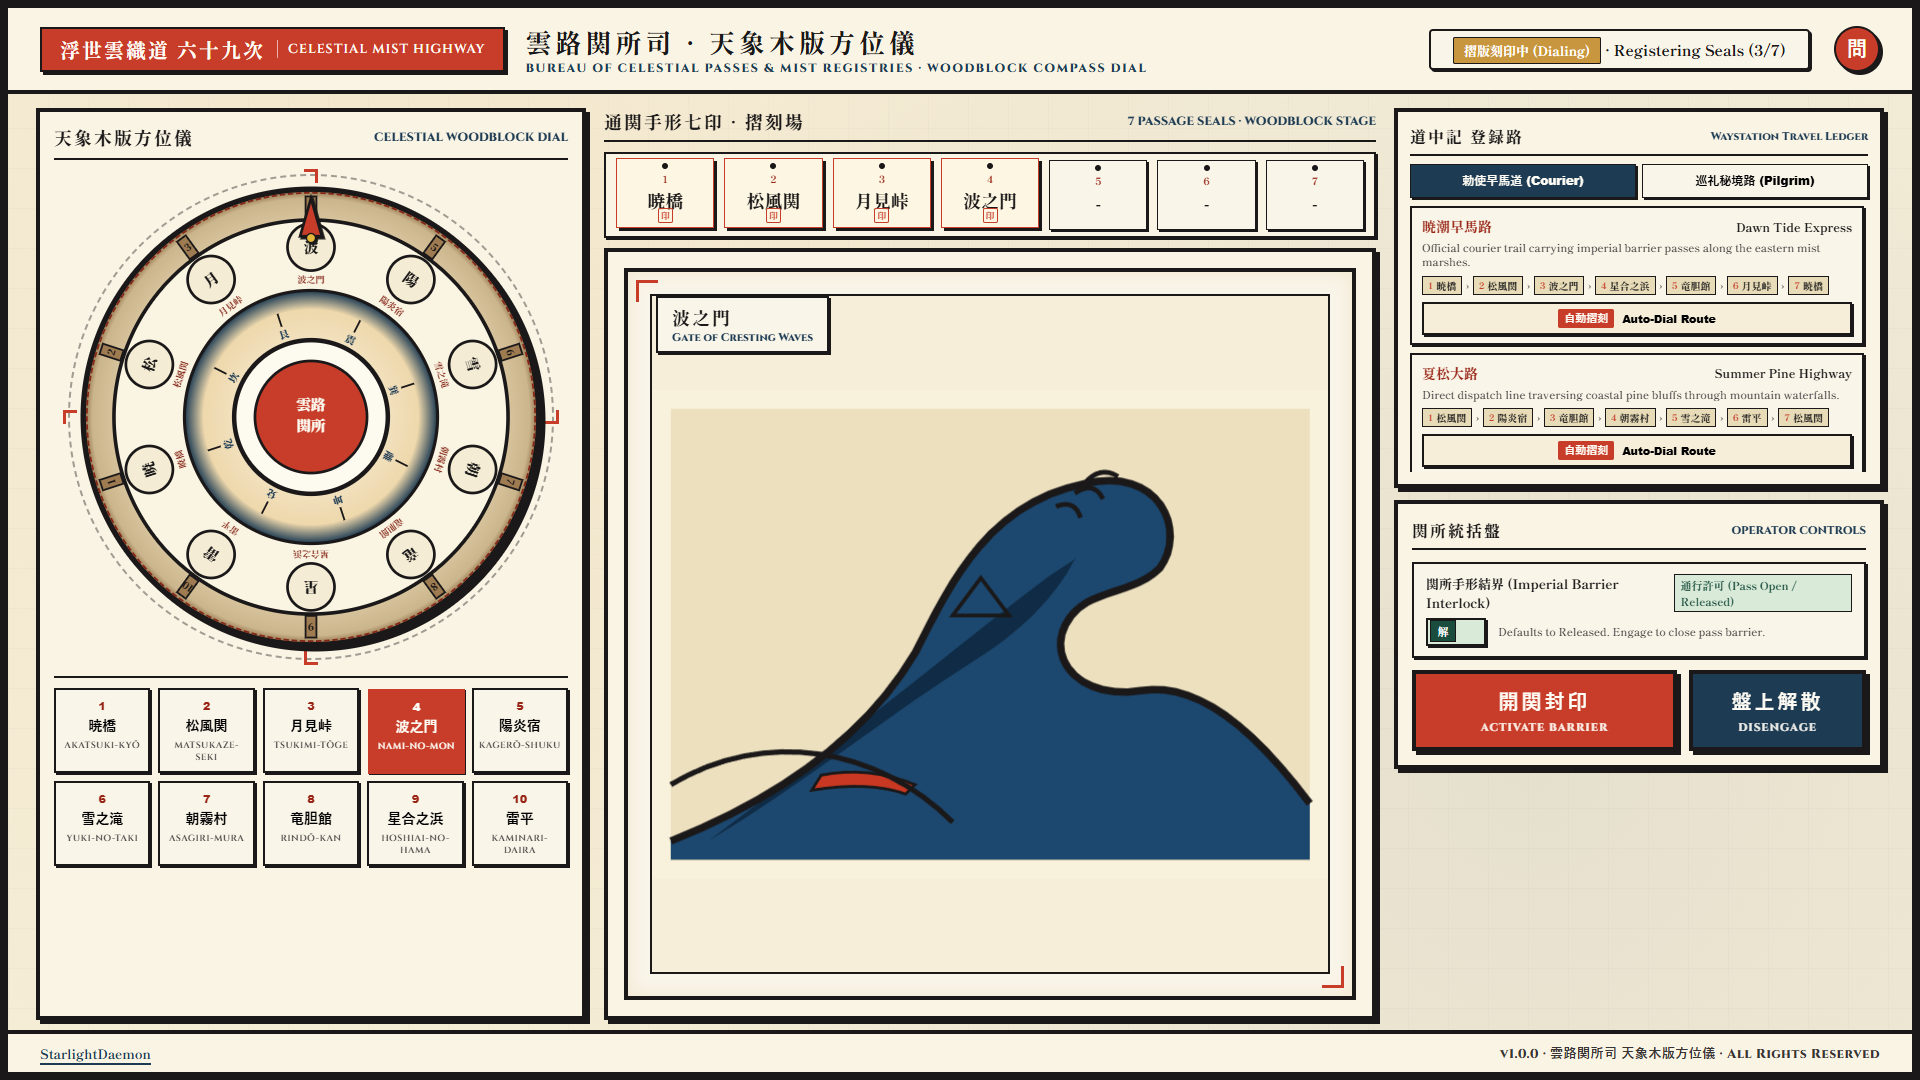
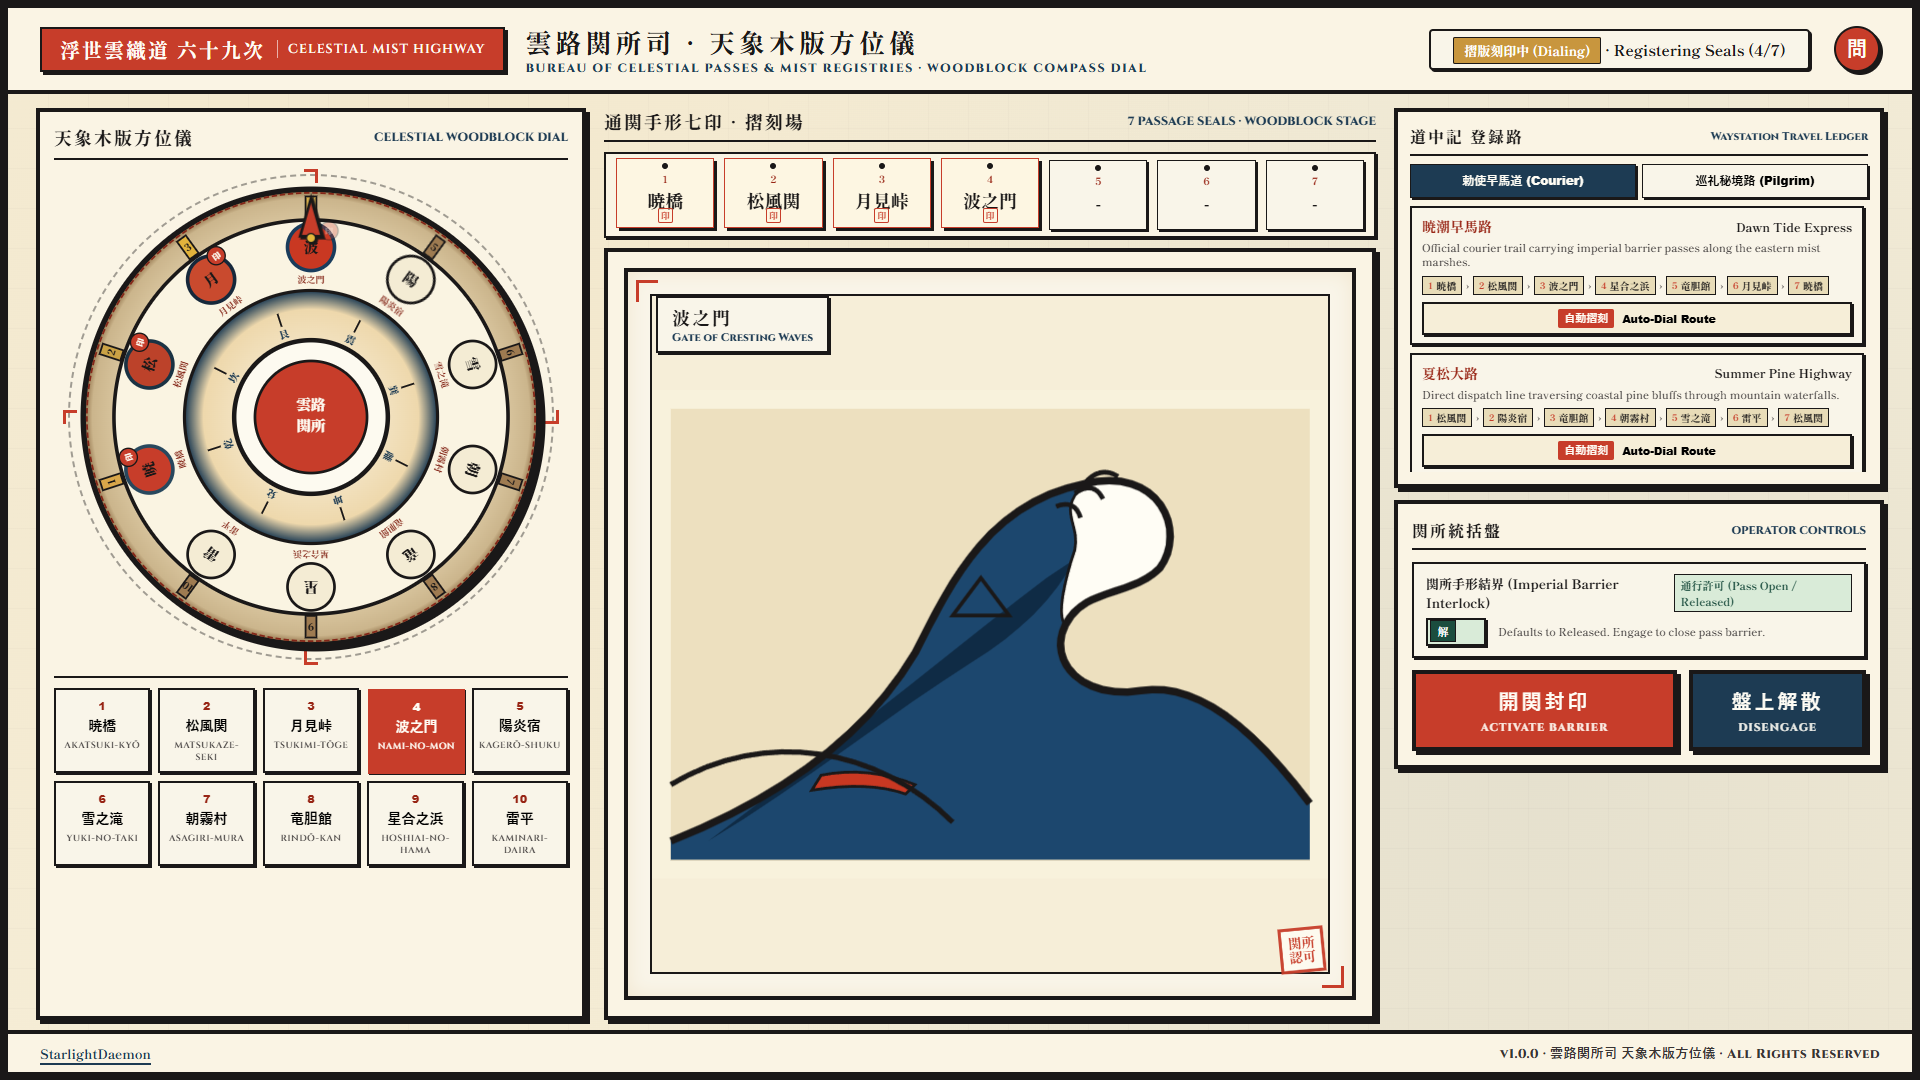
fix(ukiyo_waystation): ring carries its own locking feedback; serialize rapid clicks
Diagnosed two confirmed defects directly in this build's code:
- The rotating dial ring never changed visual state on a station lock; all
  5-layer woodblock stamping feedback lived only in the separate stage panel.
- Rapid manual clicks (faster than the ~560ms rotate+stamp pipeline) raced
  handleManualStationLock/stampStation with no reentrancy guard, producing
  duplicate registrations and blank destination tags.

Adds CelestialDial.animateSectorLock() so each locked sector stamps through
the same woodblock layer colors on the ring itself, ending in a persistent
sealed state. Adds an explicit click queue so mid-pipeline clicks are queued
(with audible/visual acknowledgement) and processed strictly in order instead
of racing. Updates test_e2e.js's manual-dial/interlock tests to wait on
actual completion instead of fixed sleeps tuned to the old racing behavior.

Full existing 14-test E2E suite re-verified with no regressions.

Built by: Claude Sonnet 5

diff --git a/stargate_ukiyo_waystation/js/dial.js b/stargate_ukiyo_waystation/js/dial.js
@@ -16,6 +16,9 @@ class CelestialDial {
         this.selectedIndex = -1;
         this.isSpinning = false;
         this.onStationLockedCallback = null;
+        this.lockedIndices = new Set();
+        this.clickQueue = [];
+        this.isLockInFlight = false;
     }
 
     init(containerId = 'dial-container', onStationLocked = null) {
@@ -38,14 +41,18 @@ class CelestialDial {
 
             sectorsSvg += `
                 <g class="dial-sector" data-index="${i}" data-id="${st.id}" transform="rotate(${angle} 260 260)">
-                    <!-- Outer Woodblock Rim Notch -->
-                    <rect x="254" y="16" width="12" height="24" fill="#9e7b51" stroke="#1a1818" stroke-width="2"/>
+                    <!-- Outer Woodblock Rim Notch (progressively stamped through print layers on lock) -->
+                    <rect x="254" y="16" width="12" height="24" fill="#9e7b51" stroke="#1a1818" stroke-width="2" class="sector-notch"/>
                     <text x="260" y="32" font-family="'Noto Serif JP', serif" font-size="11" font-weight="900" fill="#1a1818" text-anchor="middle">${i + 1}</text>
-                    
+
                     <!-- Station Seal Badge -->
                     <circle cx="260" cy="72" r="26" fill="#f4ecd4" stroke="#1a1818" stroke-width="3" class="sector-badge"/>
                     <text x="260" y="78" font-family="'Noto Serif JP', serif" font-size="16" font-weight="900" fill="#1a1818" text-anchor="middle">${st.kanji.charAt(0)}</text>
                     <text x="260" y="112" font-family="'Noto Serif JP', serif" font-size="10" font-weight="700" fill="#842618" text-anchor="middle">${st.kanji}</text>
+
+                    <!-- Locked Seal Stamp (revealed once this station fully resolves) -->
+                    <circle cx="280" cy="54" r="10" fill="#c73d2a" stroke="#1a1818" stroke-width="1.5" class="sector-seal-mark" opacity="0"/>
+                    <text x="280" y="58" font-family="'Noto Serif JP', serif" font-size="9" font-weight="900" fill="#fdfaf0" text-anchor="middle" class="sector-seal-text" opacity="0">印</text>
                 </g>
             `;
         }
@@ -146,7 +153,7 @@ class CelestialDial {
         sectors.forEach(sec => {
             sec.addEventListener('click', (e) => {
                 const idx = parseInt(sec.getAttribute('data-index'), 10);
-                this.rotateToStation(idx, true);
+                this.queueStationClick(idx);
             });
         });
 
@@ -155,9 +162,44 @@ class CelestialDial {
         padBtns.forEach(btn => {
             btn.addEventListener('click', (e) => {
                 const idx = parseInt(btn.getAttribute('data-index'), 10);
-                this.rotateToStation(idx, true);
+                this.queueStationClick(idx);
             });
         });
+    }
+
+    /**
+     * Entry point for every manual click. Clicks landing while a prior
+     * rotate+lock pipeline is still in flight are queued (with audible/visual
+     * acknowledgement) and processed strictly in order, rather than racing
+     * the in-progress animation and corrupting shared stage/ring state.
+     */
+    queueStationClick(idx) {
+        if (this.isLockInFlight) {
+            this.clickQueue.push(idx);
+            this.flashQueuedFeedback(idx);
+            window.UkiyoeAudio.playPaperFriction(0.06, 0.12);
+            return;
+        }
+        this.isLockInFlight = true;
+        this.processStationClick(idx);
+    }
+
+    processStationClick(idx) {
+        this.rotateToStation(idx, true, () => {
+            if (this.clickQueue.length > 0) {
+                const next = this.clickQueue.shift();
+                this.processStationClick(next);
+            } else {
+                this.isLockInFlight = false;
+            }
+        });
+    }
+
+    flashQueuedFeedback(idx) {
+        const btn = this.container.querySelector(`.station-pad-btn[data-index="${idx}"]`);
+        if (!btn) return;
+        btn.classList.add('pad-queued');
+        setTimeout(() => btn.classList.remove('pad-queued'), 320);
     }
 
     /**
@@ -199,21 +241,90 @@ class CelestialDial {
 
         setTimeout(() => {
             if (isManual && this.onStationLockedCallback) {
-                this.onStationLockedCallback(STATIONS_DATA[targetIdx]);
+                // onDone is deferred until the full external lock pipeline
+                // (woodblock stamping + registration) actually completes,
+                // so queued clicks never overlap an in-progress lock.
+                this.onStationLockedCallback(STATIONS_DATA[targetIdx], () => {
+                    if (onDone) onDone(STATIONS_DATA[targetIdx]);
+                });
+            } else {
+                if (onDone) onDone(STATIONS_DATA[targetIdx]);
             }
-            if (onDone) onDone(STATIONS_DATA[targetIdx]);
         }, 240);
+    }
+
+    /**
+     * Progressively stamps the corresponding dial sector's rim notch and seal
+     * badge through the same woodblock layer colors used on the print stage,
+     * so the ring itself is the primary, persistent record of which stations
+     * have locked - not just the separate stage panel.
+     */
+    animateSectorLock(index, station, isFast = false) {
+        const sectorElem = this.container && this.container.querySelector(`.dial-sector[data-index="${index}"]`);
+        if (!sectorElem) return;
+        const notch = sectorElem.querySelector('.sector-notch');
+        const badge = sectorElem.querySelector('.sector-badge');
+        const sealMark = sectorElem.querySelector('.sector-seal-mark');
+        const sealText = sectorElem.querySelector('.sector-seal-text');
+        if (!notch || !badge) return;
+
+        const layers = station.layers || {};
+        const stepTime = isFast ? 40 : 80;
+
+        sectorElem.classList.add('sector-locking');
+        notch.style.fill = '#1a1818';
+        notch.style.stroke = '#1a1818';
+
+        setTimeout(() => {
+            if (layers.jizuri) notch.style.fill = layers.jizuri;
+        }, stepTime);
+
+        setTimeout(() => {
+            if (layers.aizuri) {
+                notch.style.fill = layers.aizuri;
+                badge.style.stroke = layers.aizuri;
+            }
+        }, stepTime * 2);
+
+        setTimeout(() => {
+            if (layers.shuzuri) badge.style.fill = layers.shuzuri;
+        }, stepTime * 3);
+
+        setTimeout(() => {
+            if (layers.gold) notch.style.fill = layers.gold;
+            sectorElem.classList.remove('sector-locking');
+            sectorElem.classList.add('sector-locked');
+            this.lockedIndices.add(index);
+            if (sealMark) sealMark.style.opacity = '1';
+            if (sealText) sealText.style.opacity = '1';
+        }, stepTime * 4);
     }
 
     resetDial() {
         this.currentAngle = 0;
         this.selectedIndex = -1;
+        this.clickQueue = [];
+        this.isLockInFlight = false;
+        this.lockedIndices.clear();
         if (this.rotaryGroup) {
             this.rotaryGroup.style.transition = 'transform 0.4s cubic-bezier(0.25, 1, 0.5, 1)';
             this.rotaryGroup.style.transform = 'rotate(0deg)';
         }
         const padBtns = this.container.querySelectorAll('.station-pad-btn');
-        padBtns.forEach(btn => btn.classList.remove('active'));
+        padBtns.forEach(btn => btn.classList.remove('active', 'pad-queued'));
+
+        const sectors = this.container.querySelectorAll('.dial-sector');
+        sectors.forEach(sec => {
+            sec.classList.remove('sector-locking', 'sector-locked');
+            const notch = sec.querySelector('.sector-notch');
+            const badge = sec.querySelector('.sector-badge');
+            const sealMark = sec.querySelector('.sector-seal-mark');
+            const sealText = sec.querySelector('.sector-seal-text');
+            if (notch) { notch.style.fill = ''; notch.style.stroke = ''; }
+            if (badge) { badge.style.fill = ''; badge.style.stroke = ''; }
+            if (sealMark) sealMark.style.opacity = '0';
+            if (sealText) sealText.style.opacity = '0';
+        });
     }
 }
 

diff --git a/stargate_ukiyo_waystation/scripts/test_e2e.js b/stargate_ukiyo_waystation/scripts/test_e2e.js
@@ -86,15 +86,17 @@ async function runE2ETests() {
             const box = await btn.boundingBox();
             await page.mouse.click(box.x + box.width / 2, box.y + box.height / 2);
 
-            await sleep(400); // Allow stamping animation
-
             if (i === 3) {
+                // Clicks now queue and fully serialize (rotate + 5-layer stamp) rather
+                // than racing, so wait for this click to actually resolve before the mid-sequence shot.
+                await page.waitForFunction((n) => window.PortalController.lockedStations.length >= n, {}, i + 1);
                 await page.screenshot({ path: path.join(SCREENSHOT_DIR, '02_manual_dial_progress.png') });
                 console.log('✓ Captured 02_manual_dial_progress.png (4 seals locked)');
             }
         }
 
-        await sleep(500);
+        // Wait for the full serialized queue (all 7 clicks) to resolve.
+        await page.waitForFunction(() => window.PortalController.lockedStations.length >= 7, { timeout: 10000 });
 
         // [Test 3] Negative Test: Verify state is PENDING and did NOT auto-fire!
         const pendingCheck = await page.evaluate(() => {
@@ -212,14 +214,13 @@ async function runE2ETests() {
 
         // [Test 8] Safety Interlock Blocked Test
         console.log('\n[Test 8] Testing Safety Interlock (関所手形結界)...');
-        // Dial 7 stations again
+        // Dial 7 stations again (clicks queue and fully serialize; wait for all to resolve)
         for (let i = 0; i < 7; i++) {
             const pad = await page.$(`.station-pad-btn[data-index="${i}"]`);
             const pbox = await pad.boundingBox();
             await page.mouse.click(pbox.x + pbox.width / 2, pbox.y + pbox.height / 2);
-            await sleep(150);
         }
-        await sleep(400);
+        await page.waitForFunction(() => window.PortalController.lockedStations.length >= 7, { timeout: 10000 });
 
         // Toggle interlock to CLOSED
         const toggleLabel = await page.$('.latch-toggle-label');

diff --git a/stargate_ukiyo_waystation/js/portal.js b/stargate_ukiyo_waystation/js/portal.js
@@ -84,26 +84,38 @@ class PortalController {
 
         // Connect Celestial Dial manual station lock callback
         if (window.CelestialDial) {
-            window.CelestialDial.onStationLockedCallback = (station) => {
-                this.handleManualStationLock(station);
+            window.CelestialDial.onStationLockedCallback = (station, doneCallback) => {
+                this.handleManualStationLock(station, doneCallback);
             };
         }
     }
 
-    handleManualStationLock(station) {
+    /**
+     * doneCallback is always invoked exactly once, and only once the full
+     * lock attempt (accepted or rejected) has resolved - it drains the
+     * dial's click queue, so a rejected/no-op click still lets the next
+     * queued click proceed instead of stalling it.
+     */
+    handleManualStationLock(station, doneCallback) {
+        const finish = () => { if (doneCallback) doneCallback(); };
+
         if (this.state === PORTAL_STATES.STAGE_1_BUILDUP ||
             this.state === PORTAL_STATES.STAGE_2_BREAKTHROUGH ||
             this.state === PORTAL_STATES.STAGE_3_SUSTAINED) {
+            finish();
             return;
         }
 
         if (this.lockedStations.length >= this.maxStations) {
+            finish();
             return;
         }
 
         const lockIdx = this.lockedStations.length;
+        window.CelestialDial.animateSectorLock(station.index, station, false);
         window.WoodblockEngine.stampStation(station, lockIdx, () => {
             this.registerLockedStation(station);
+            finish();
         });
     }
 

diff --git a/stargate_ukiyo_waystation/css/ukiyoe_dial.css b/stargate_ukiyo_waystation/css/ukiyoe_dial.css
@@ -115,6 +115,33 @@
     fill: var(--vermillion-shu);
 }
 
+/* Ring is the primary locus of dialing feedback: sectors carry their own
+   progressive woodblock-layer stamping and a persistent lock seal. */
+.sector-notch,
+.sector-badge {
+    transition: fill 0.12s linear, stroke 0.12s linear;
+}
+
+.dial-sector.sector-locking .sector-badge {
+    animation: sectorLockPulse 0.28s ease-in-out infinite alternate;
+}
+
+@keyframes sectorLockPulse {
+    from { stroke-width: 3px; }
+    to { stroke-width: 6px; }
+}
+
+.dial-sector.sector-locked .sector-badge {
+    stroke: var(--vermillion-shu, #c73d2a);
+    stroke-width: 4px;
+}
+
+.sector-seal-mark,
+.sector-seal-text {
+    transition: opacity 0.25s ease-in;
+    pointer-events: none;
+}
+
 .kento-needle {
     pointer-events: none;
     filter: drop-shadow(2px 2px 0 var(--sumi-ink));
@@ -156,6 +183,11 @@
     transform: translate(-1px, -1px);
     box-shadow: 3px 3px 0 var(--sumi-ink);
     border-color: var(--vermillion-shu);
+}
+
+.station-pad-btn.pad-queued {
+    outline: 2px dashed var(--vermillion-shu, #c73d2a);
+    outline-offset: 2px;
 }
 
 .station-pad-btn:active,

diff --git a/stargate_ukiyo_waystation/js/presets.js b/stargate_ukiyo_waystation/js/presets.js
@@ -219,7 +219,8 @@ class PresetsManager {
             window.CelestialDial.rotateToStation(stationIdx, false, () => {
                 if (!this.isAutoDialing) return;
 
-                // Stamp woodblock print (isFast = true for crisp auto-dial pacing)
+                // Stamp the ring sector and woodblock print in sync (isFast = true for crisp auto-dial pacing)
+                window.CelestialDial.animateSectorLock(stationIdx, station, true);
                 window.WoodblockEngine.stampStation(station, currentLockIdx, () => {
                     if (!this.isAutoDialing) return;
 

diff --git a/stargate_ukiyo_waystation/CHANGELOG.md b/stargate_ukiyo_waystation/CHANGELOG.md
@@ -2,6 +2,25 @@
 
 All notable changes to the Stargate Ukiyo-e Waystation interface will be documented in this file.
 
+## [1.0.1] - 2026-08-25
+
+**Built by:** Claude Sonnet 5
+
+> **Fix scope:** Targeted fix only — original ukiyo-e identity, woodblock rendering style, color palette, station content, and sound design are unchanged.
+
+### Diagnosed (confirmed directly in this build's own code, not assumed from a similar build)
+- **Ring carried no locking feedback**: `.dial-sector` elements never changed visual state on a lock — verified via instrumented Puppeteer run showing sector `class` attributes stayed empty before and after locking a station. All 5-layer woodblock stamping rendered exclusively in the separate `#woodblock-stage` print panel; the rotating dial ring itself was purely a selector with no persistent per-station record of what had been locked.
+- **Rapid manual clicks raced and corrupted state**: `PortalController.handleManualStationLock` / `WoodblockEngine.stampStation` had no reentrancy guard. Puppeteer test dispatching 5 real pointer-event clicks 60ms apart (faster than the ~560ms rotate+stamp pipeline) produced `lockedStations.length === 6` with one station double-registered and 4 of 5 destination tags left blank (`fuda-kanji` showing `-`) — clicks weren't dropped outright, but the shared stage SVG layers and `lockIdx` slot were stomped by overlapping in-flight calls, so most of the operator's input produced no visible result.
+
+### Fixed
+- **Ring is now the primary locus of dialing feedback**: added `CelestialDial.animateSectorLock()`, which stamps each dial sector's rim notch and seal badge through the same 5 woodblock layer colors (`jizuri` → `aizuri` → `shuzuri` → gold/bokashi) used on the print stage, ending in a persistent vermillion-sealed `.sector-locked` state with a small red Inkan seal mark. Wired into both the manual lock path (`portal.js`) and the auto-dial path (`presets.js`), synced to each engine's existing stamp timing. The stage panel remains as a secondary detail view.
+- **Mid-rotation clicks now queue instead of racing**: `CelestialDial` gained an explicit click queue (`queueStationClick` / `processStationClick`). A click landing while a prior rotate+lock pipeline is in flight is queued (with a brief audible paper-friction cue and a dashed `.pad-queued` outline on its pad button) and processed strictly in order once the previous station's full rotate → 5-layer stamp → registration sequence completes. `rotateToStation`'s completion now waits on `PortalController.handleManualStationLock`'s actual finish (via an explicit `doneCallback`) rather than firing after the CSS rotation alone, eliminating the `lockIdx` collision at its root.
+- Updated `scripts/test_e2e.js`'s manual-dial and safety-interlock tests to wait on `lockedStations.length` reaching the expected count via `page.waitForFunction` instead of fixed sleeps — the previous fixed delays were implicitly tuned to the old racing behavior finishing "fast but corrupted"; correct serialization takes measurably longer per rapid click and needed a completion-based wait instead of a guessed timeout.
+
+### Verified
+- Re-ran the full existing 14-test Puppeteer E2E suite (`scripts/test_e2e.js`) end-to-end: viewport scaling, safety interlock default (RELEASED), full 7-station manual dial, negative auto-fire (lands in PENDING, never auto-activates), three-stage activation (buildup → breakthrough → sustained), disengage/reset, quick-dial auto-dial sequencing, safety interlock block, operator reference modal, and 4K scaling all pass with no regressions.
+- Additional targeted Puppeteer runs with real dispatched pointer events at 60ms and 20ms click spacing confirmed clicks now fully serialize (verified via instrumented call-order logging) with zero duplicate registrations and zero blank destination tags.
+
 ## [1.0.0] - 2026-08-23
 
 **Built by:** Gemini 3.7 Flash (High Reasoning)
